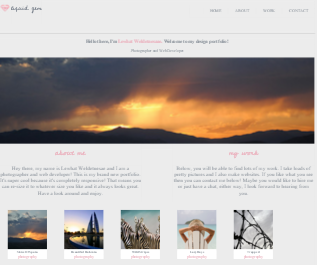
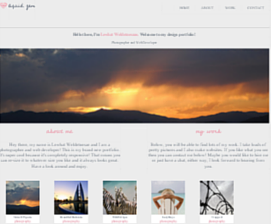
deleted unneeded image

diff --git a/css/main.css b/css/main.css
@@ -132,10 +132,10 @@ a:focus {
 #sectionIntro {
   	position: relative;
   	width: 100%;
-  	min-height: 800px;
+  	min-height: 600px;
 	background-size: cover;
-  	background-image: url(../images/sr2.jpg);
-  	background-position: 0% 100%;
+  	background-image: url(../images/commute1.gif);
+  	background-position: 0% 0%;
 
  }
 
@@ -143,7 +143,7 @@ a:focus {
 	margin-right: auto;
 	margin-top: 14%;
 	text-align: left;
-	background-color: rgba(255,255,255,0.8);
+	background-color: rgba(255,255,255,0.97);
 	padding:50px;
 	padding-bottom: 30px;
 }
@@ -362,7 +362,7 @@ a:focus {
 	line-height: 30px;
 	font-weight: 300;
 	letter-spacing: 1px;
-	color:888;
+	color:#888;
 }
 .resumeIcon {
 	float: left;
@@ -384,12 +384,13 @@ a:focus {
  06. Qualities
  ----------------------------------------------- */
 
- 
 #sectionQualities {
-	position: relative;
+	
   	background: #fff;
-  	
+ 	position: relative;
+  	z-index: 200;
   	padding-bottom: 100px;
+  	
 }
 .blog-item {
 	margin-left: 10px;
@@ -399,13 +400,11 @@ a:focus {
 	margin-top: 10px;
 	background-color: #f9f7f8;
 }
-.blog-padding{
-	padding: 32px 25px !important;
-}
+
 .item-margin{
 	margin-right: 3.3%;
 }
-
+.item-four { width: 34%; }
 
 .blog-item h4 {
 	font-family: "Montserrat", sans-serif;
@@ -413,7 +412,7 @@ a:focus {
 	font-weight: bold !important;
 	font-size: 16px;
 	text-transform: uppercase;
-	margin-bottom: 15px;
+	margin-bottom: 1px;
 	letter-spacing: 0.08em;
 	line-height: 25px;
 }
@@ -427,45 +426,26 @@ a:focus {
 	font-size: 12px;
 	font-weight: 700;
 }
-span.separator{
-	margin: 0px 10px;
-}
+
 .blog-item h6 a{
 	color:#a74752;
 }
-.blog-item a:focus, .blog-item a:hover{text-decoration: none;}
-.blog-item b a {
-	font-size: 12px;
-	letter-spacing: 1px;
-	color: #333;
-	font-weight: 400 !important;
-}
-.blog-item:hover img {
-	-webkit-animation-name: pulse;
-	animation-name: pulse;
-	-webkit-animation-duration: .7s;
-	animation-duration: .7s;
-	-webkit-animation-fill-mode: both;
-	animation-fill-mode: both;
 
-}
+
 
 .qualitiesIcon{
 	color:#f9f7f8; 
 	font-size: 30px;
-	width: 50px;
-	height: 50px;
+	width: 30px;
+	height: 30px;
 	background: #a74752;
-	padding: 8px 11px;
-	padding-top: 10px;
-	padding-right: 16px;
+	padding: 0px 0px;
+	padding-top: 0px;
+	padding-right: 0px;
 	border-radius: 50%;
-	margin-bottom: 10px;
-	transition: all 0.5s ease-in-out;
-	-webkit-transition: all 0.5s ease-in-out;
-	-moz-transition: all 0.5s ease-in-out;
+	margin-bottom: 0px;
+	
 }
-
 
 .blog-item:hover{
 	opacity: 1; 
@@ -483,6 +463,7 @@ span.separator{
 #sectionPortfolio{
 	padding-bottom: 100px;
 	background: #c3d7d8;
+
 }
 
 
@@ -502,7 +483,7 @@ span.separator{
 	padding-left: 5px;
 }
 .item-padding-top{
-	padding-top: 40px;
+	padding-top: 80px;
 }
 
 .grid-item a {
@@ -512,8 +493,9 @@ span.separator{
 }
 
 .item-five { width: 33%; }
+.item-four { width: 34%; }
 .item-three { width: 32%; }
-.item-four { width: 29%; }
+
 
 .itemHover {
 	position: absolute;
@@ -614,9 +596,9 @@ span.separator{
 
 #sectionContact{
 	margin-bottom: 0px;
-	padding-bottom: 100px;
+	padding-bottom: 0px;
 	background: #fff;
-	min-height: 800px;
+	min-height: 700px;
  
 }
 
@@ -635,18 +617,17 @@ span.separator{
 	text-align: center;
 	color:#a74752;
 	font-weight: bold;
-	z-index: 1;
 }
 .feel {
 	color: #a74752;
 }
 .textContact {
 	margin-right: auto;
-	margin-top: 14%;
+	margin-top: 0%;
 	text-align: left;
 	/*background-color: rgba(255,255,255,0.6);*/
-	padding:50px;
-	padding-bottom: 30px;
+	padding:0px;
+	padding-bottom: 0px;
 }
 /* ====FOOTER=== */
 

diff --git a/index.html b/index.html
@@ -357,7 +357,7 @@
                                   <div class="qualitiesIcon">
                                       <div class="icon icon-basic-heart"></div>
                                   </div>
-                                   <br>
+                                  
                                   <div class="qualitiesContent">
                                       <h4>Passionate</h4>
                                       <h6></h6>
@@ -372,7 +372,7 @@
                                   <div class="qualitiesIcon">
                                       <div class="icon icon-basic-calculator"></div>
                                   </div>
-                                   <br>
+                                  
                                   <div class="qualitiesContent">
                                       <h4>Analytical</h4>
                                       <h6></h6>
@@ -390,7 +390,7 @@
                                   <div class="qualitiesIcon">
                                       <div class="icon icon-basic-clock"></div>
                                   </div>
-                                   <br>
+                                
                                   <div class="qualitiesContent">
                                         <h4>Efficient</h4>
                                         <h6></h6>
@@ -415,7 +415,7 @@
                               <div class="blog-item item-four item-margin">
                                   <div class="qualitiesIcon">
                                       <div class="icon icon-basic-lightbulb"></div>
-                                  </div> <br>
+                                  </div> 
                                   <div class="qualitiesContent">
                                         <h4>Inquisitive</h4>                                 
                                         <h6></h6>
@@ -429,7 +429,7 @@
                                   <div class="qualitiesIcon">
                                       <div class="icon icon-basic-globe"></div>
                                   </div>
-                                  <br>
+                                
                                   <div class="qualitiesContent">
                                       <h4>Multicultural</h4>
                                       <h6></h6>
@@ -500,7 +500,7 @@
               </a>
 
               
-            </div>
+            </div> 
 
 
              <div class="grid-item item-five item-padding">
@@ -538,7 +538,7 @@
 
             </div>
 
-           <div class="grid-item item-five item-padding">
+             <div class="grid-item item-five item-padding">
 
             <a class="zodiac" href="/zodiac" target="_blank">
 
@@ -568,8 +568,7 @@
               </a>
 
              
-            </div>
-
+            </div>   
 
     </div>
     </div>
